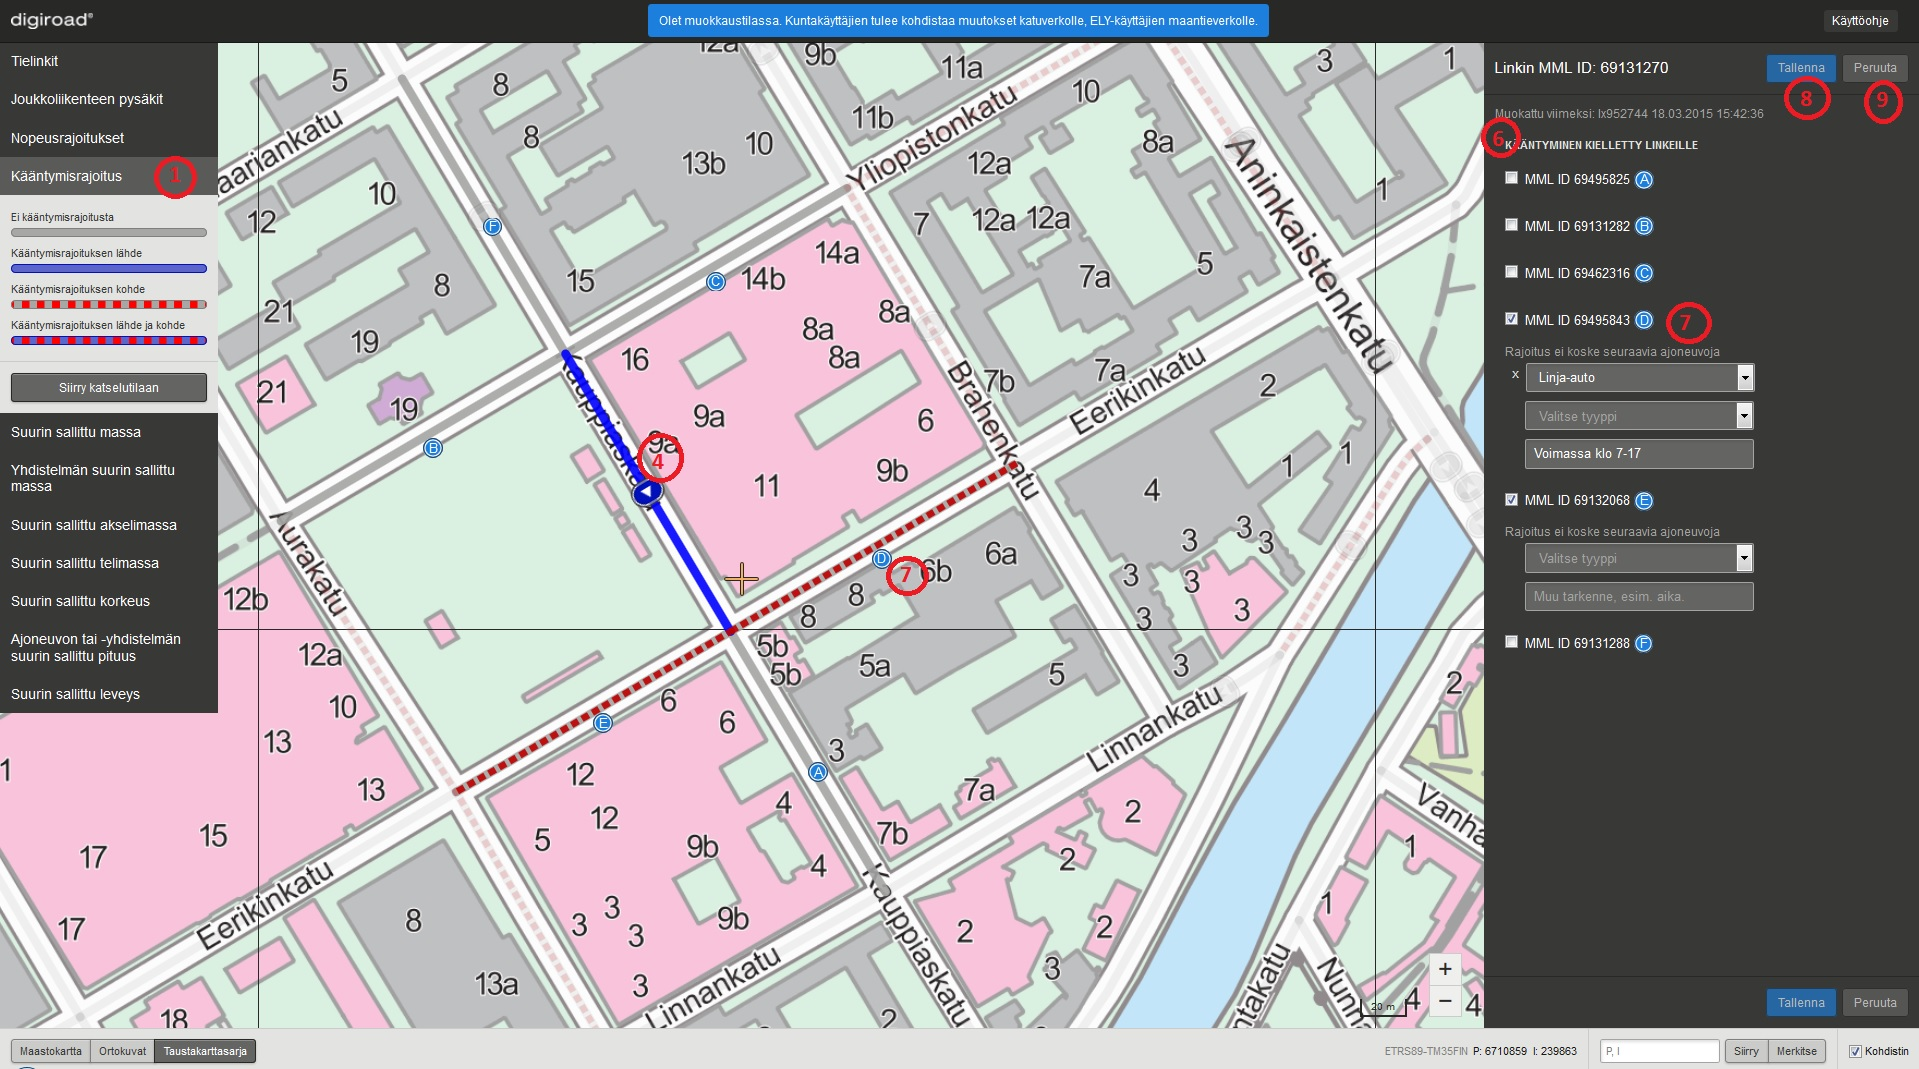
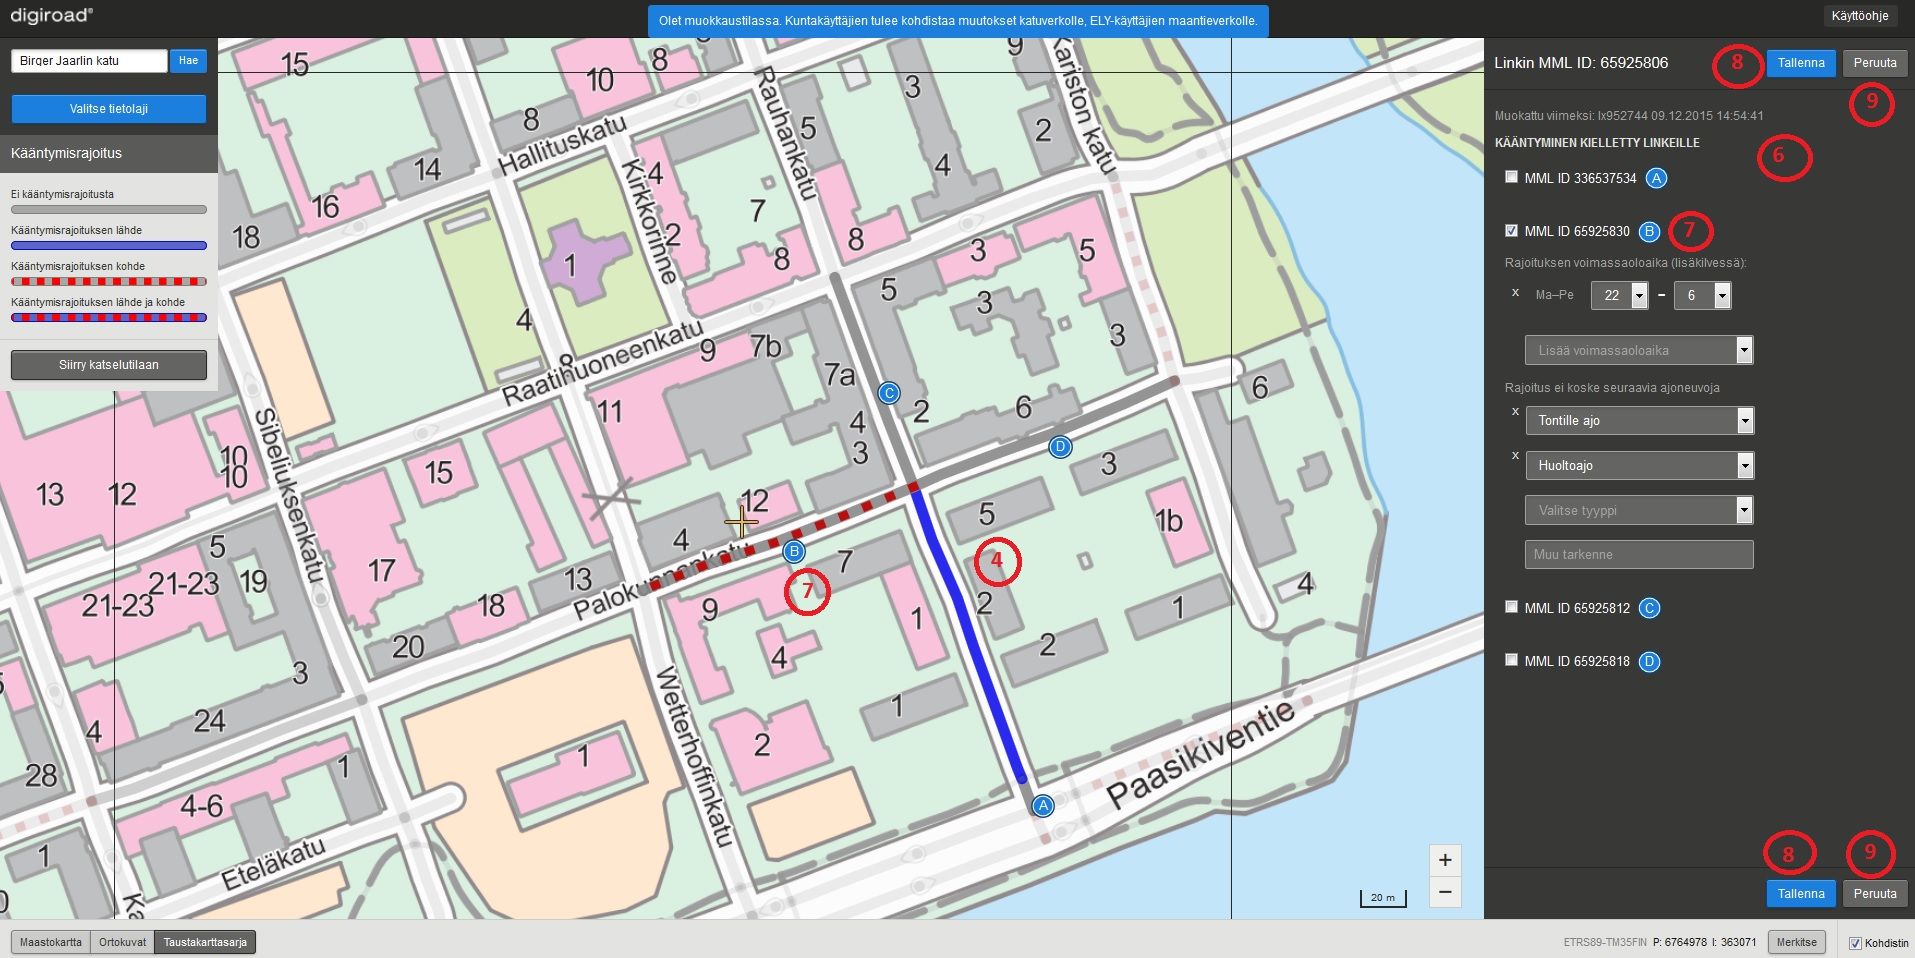
update manual

diff --git a/UI/manual/index.md b/UI/manual/index.md
@@ -545,7 +545,7 @@ _K&auml;&auml;ntymisrajoituksen tietojen katselu._
 
 ##K&auml;&auml;ntymisrajoitusten muokkaus##
 
-K&auml;&auml;ntymisrajoituksia muokataan muokkaustilassa. Muokattava kohde valitaan klikkaamalla sen geometriaa (4). Tietoja muokataan ominaisuustieton&auml;kym&auml;ss&auml; (6). Muokattavia tietoja ovat k&auml;&auml;ntymisrajoituksen kohdelinkit, ajoneuvotyypit, joita k&auml;&auml;ntymisrajoitus ei koske sek&auml; tarkenne (esim. aika). Ominaisuustieton&auml;kym&auml;ss&auml; on linkin yhteydess&auml; kartalla kohdelinkkej&auml; vastaavat kirjaimet helpottamassa oikean linkin valintaa (7). Poikkeukset (ajoneuvotyypit ja vapaa tekstikentt&auml;) n&auml;kyv&auml;t ainoastaan silloin, kun kyseinen tielinkki on valittu k&auml;&auml;ntymisrajoituksen kohdelinkiksi.
+K&auml;&auml;ntymisrajoituksia muokataan muokkaustilassa. Muokattava kohde valitaan klikkaamalla sen geometriaa (4). Tietoja muokataan ominaisuustieton&auml;kym&auml;ss&auml; (6). Muokattavia tietoja ovat k&auml;&auml;ntymisrajoituksen kohdelinkit, lis&auml;kilven mukainen voimassaoloaika, ajoneuvotyypit, joita k&auml;&auml;ntymisrajoitus ei koske eli poikkeukset sek&auml; mahdollinen muu tarkenne. Ominaisuustieton&auml;kym&auml;ss&auml; on linkin yhteydess&auml; kartalla kohdelinkkej&auml; vastaavat kirjaimet helpottamassa oikean linkin valintaa (7). Poikkeukset ja tarkenteet (aika ja vapaa tekstikentt&auml;) n&auml;kyv&auml;t ainoastaan silloin, kun kyseinen tielinkki on valittu k&auml;&auml;ntymisrajoituksen kohdelinkiksi.
 
 Muutokset tallennetaan painamalla Tallenna-painiketta (8). Ennen Tallenna-painikkeen painamista muutokset voi peruuttaa painamalla Peruuta-painiketta (9). Tallenna- ja Peruuta -painikkeet eiv&auml;t ole aktiivisina, jos muutoksia ei ole tehty. Jos muutoksia on tehty eik&auml; niit&auml; ole tallennettu tai peruutettu ja siirryt&auml;&auml;n pois k&auml;&auml;ntymisrajoituksen valinnasta, sovellus antaa muutos-dialogin. Muutos-dialogi kertoo k&auml;ytt&auml;j&auml;lle, ett&auml; muutoksia on tehty ja ne tulee tallentaa tai peruuttaa ennen kuin voi jatkaa.
 
@@ -559,7 +559,7 @@ Uusi k&auml;&auml;ntymisrajoitus lis&auml;t&auml;&auml;n valitsemalla kartalta s
  
 ####Uuden k&auml;&auml;ntymisrajoituksen poistaminen####
 
-K&auml;&auml;ntymisrajoituksen voi poistaa valitsemalla sen l&auml;hdelinkin kartalta. Ominaisuustieton&auml;kym&auml;&auml;n avautuu k&auml;&auml;ntymisrajoituksen kohteet. Poistamalla valinnan kaikista k&auml;&auml;ntymisrajoituksen kohteista ja tallentamalla, k&auml;&auml;ntymisrajoitus poistuu.
+K&auml;&auml;ntymisrajoituksen voi poistaa valitsemalla sen l&auml;hdelinkin kartalta. Ominaisuustieton&auml;kym&auml;&auml;n avautuu k&auml;&auml;ntymisrajoituksen kohteet. Poistamalla valinta k&auml;&auml;ntymisrajoituksen kohteesta tai kohteista ja tallentamalla, k&auml;&auml;ntymisrajoitus poistuu.
 
 7. Suurin sallittu X 7
 ----------------------
@@ -1387,7 +1387,7 @@ _VAK-rajoituksen muokkaus._
 
 Tielinkit, joilla ei ole VAK-rajoitusta on visualisoitu kartalle harmaalla v&auml;rill&auml;. Uusi VAK-rajoitus lis&auml;t&auml;&auml;n valitsemalla kartalta geometria, jolle se halutaan lis&auml;t&auml; (4). Valitsemalla alasvetovalikosta rajoituksen tyyppi (5), tulee t&auml;m&auml;n j&auml;lkeen n&auml;kyviin lis&auml;&auml; valikkoja voimassaolokellonajalle ja toiselle rajoitukselle.
 
-![Lis&auml;ys.](k135.JPG)
+![Lis&auml;ys.](k135.jpg)
 
 _VAK-rajoituksen lis&auml;ys_
 
